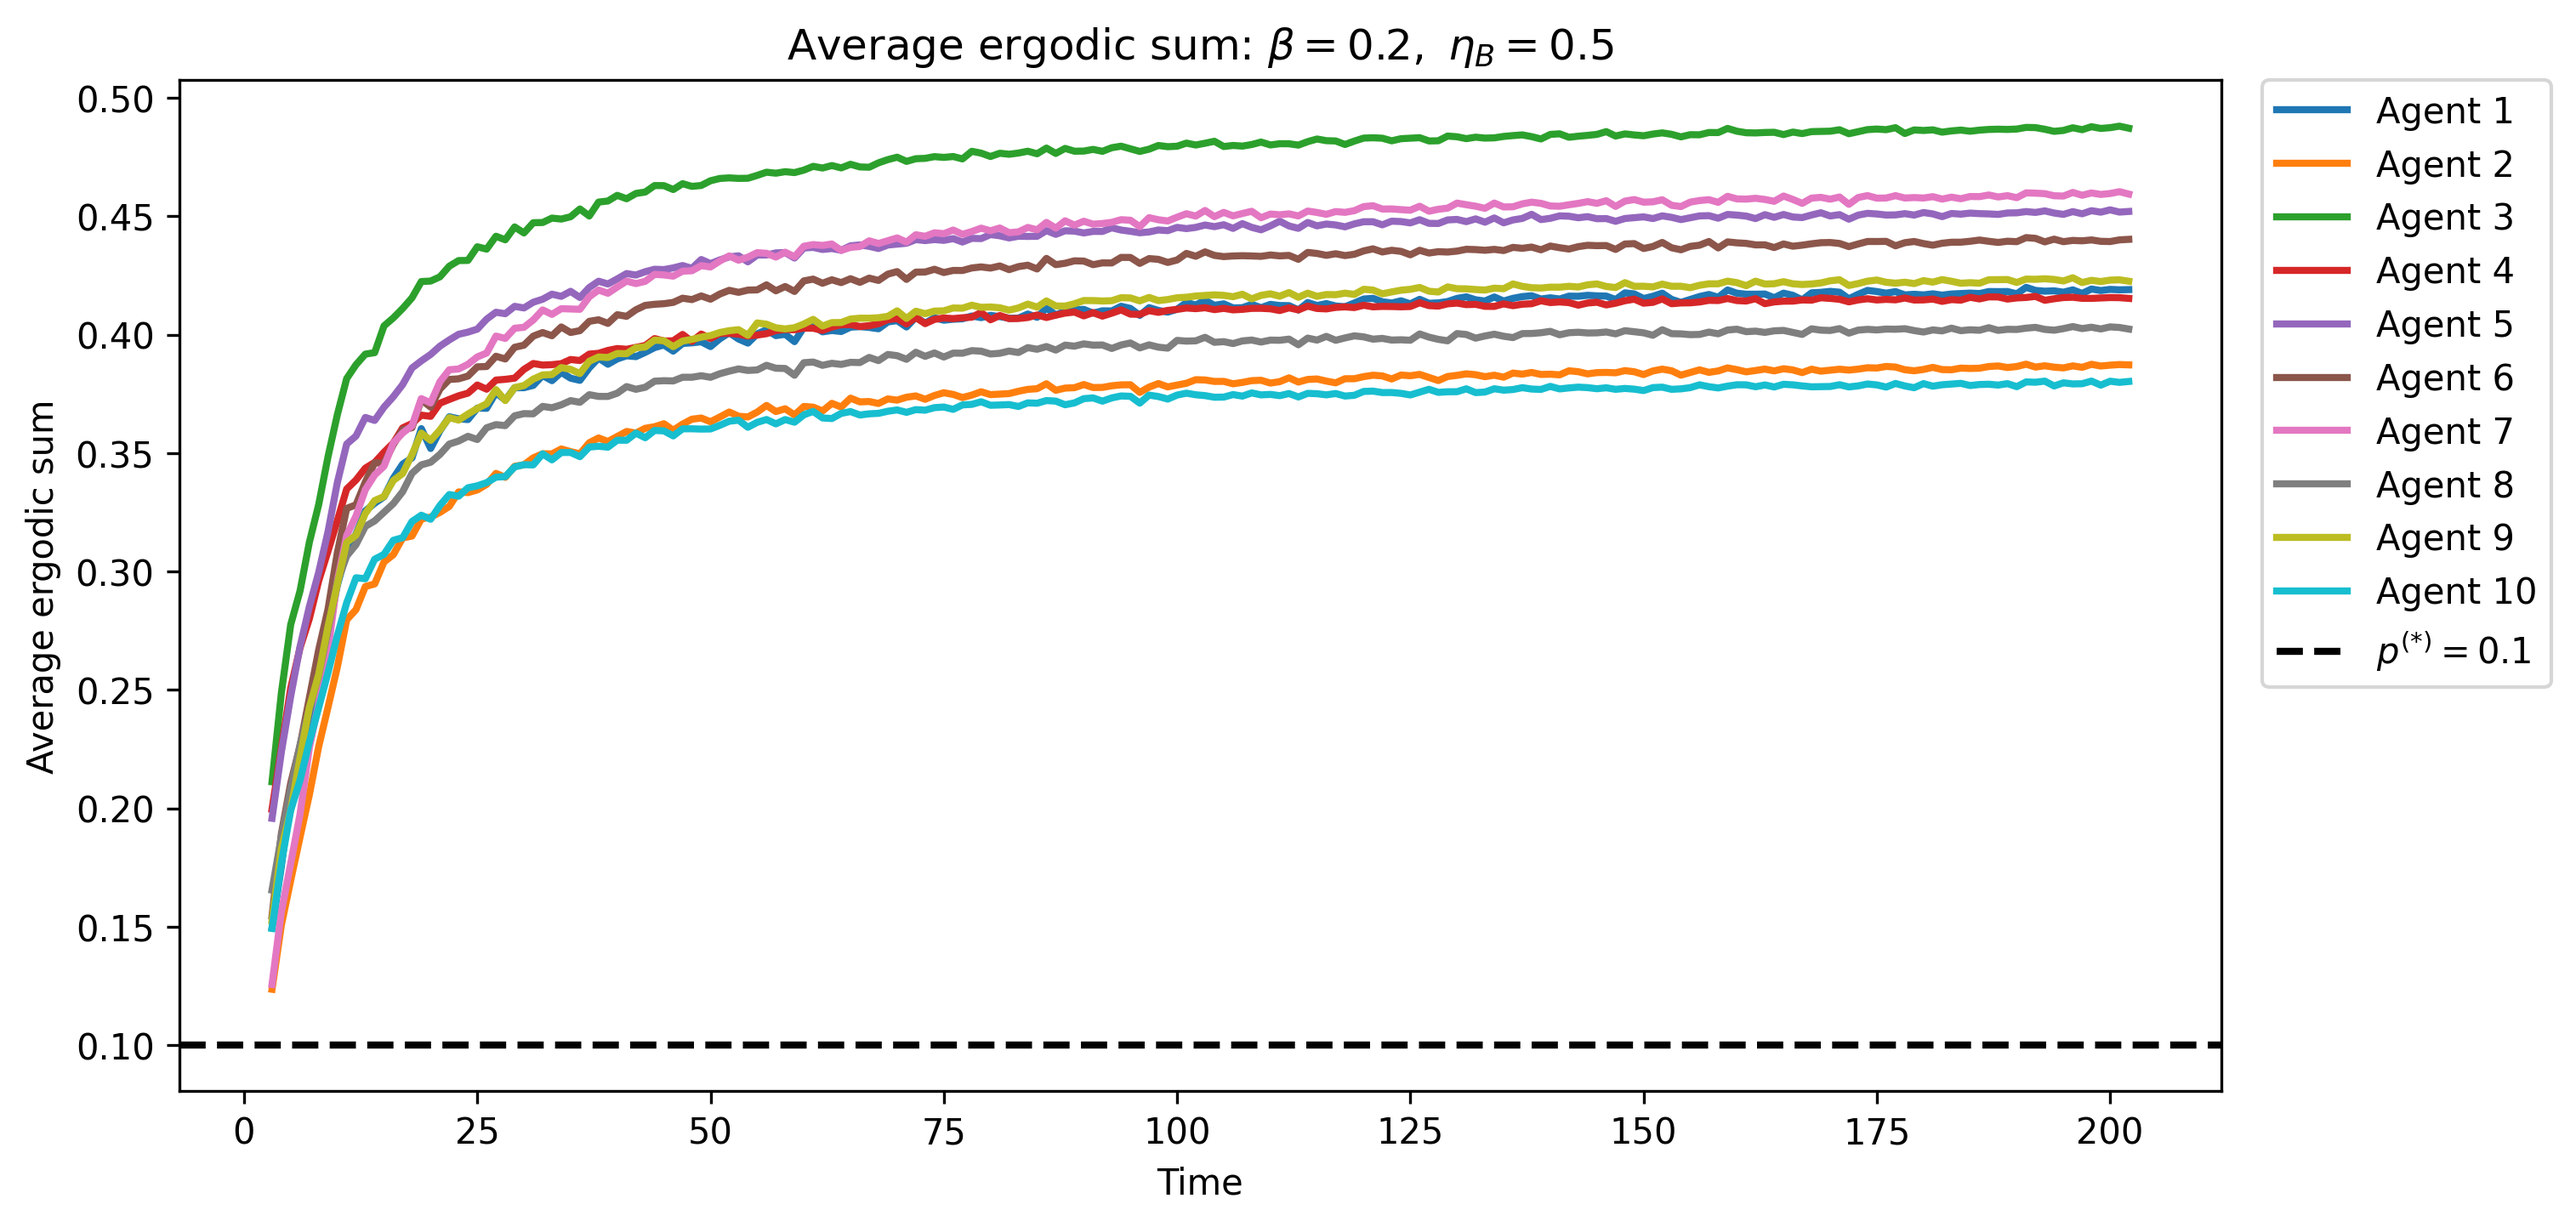
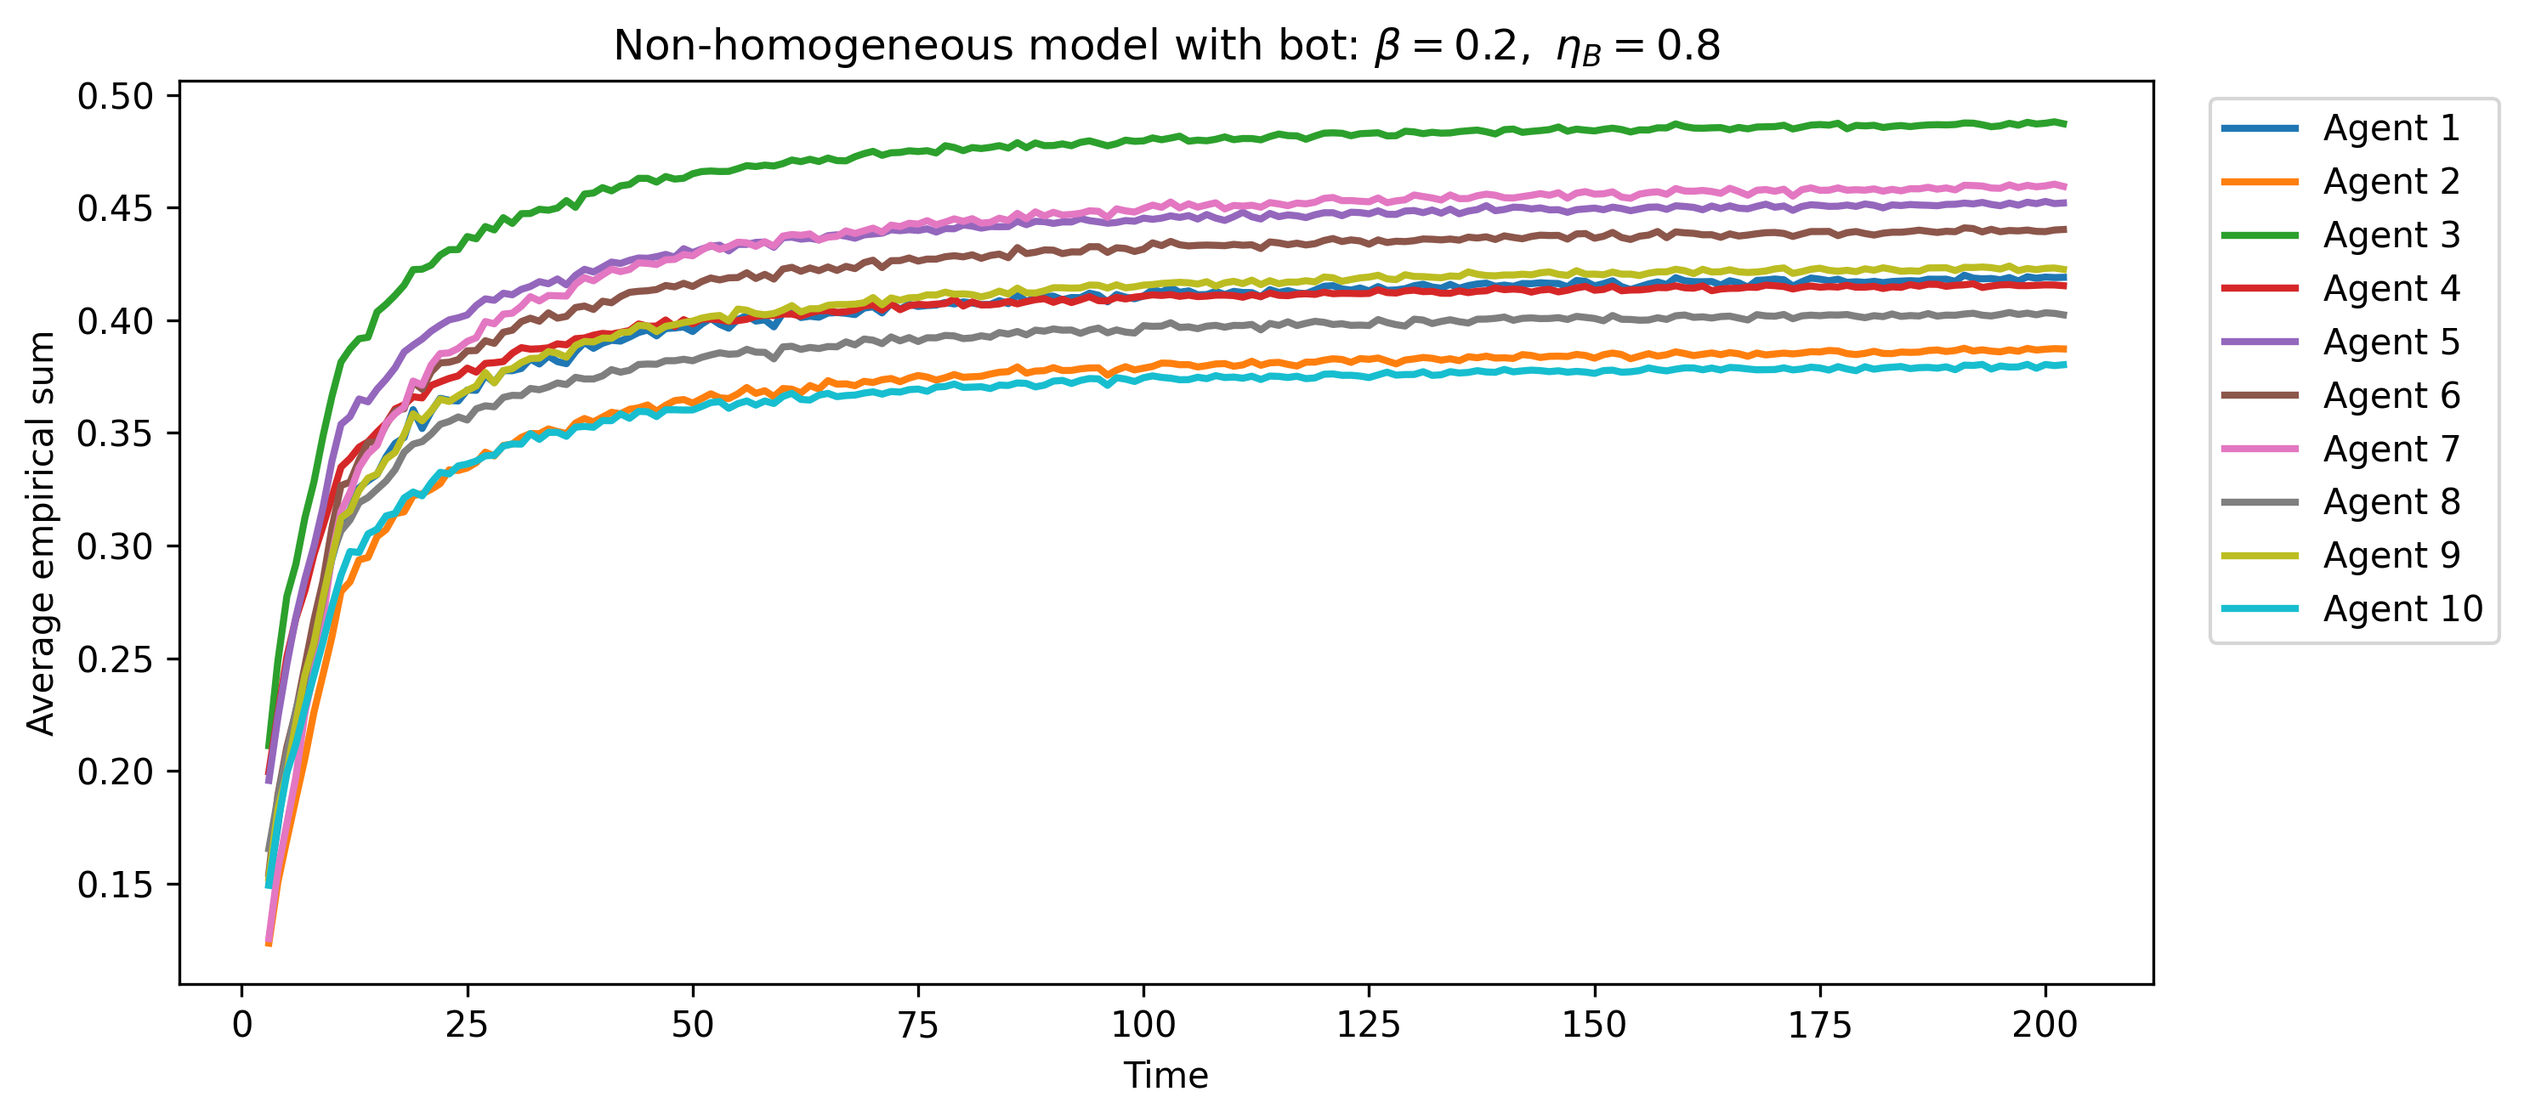
Added non-homogeneous bot figure again

Changed region(s): [[0.0, 0.0311, 0.9916, 0.9643], [0.031, 0.2489, 0.093, 0.3111], [0.031, 0.1555, 0.093, 0.2178]]

diff --git a/src/simulations/run_simulation.py b/src/simulations/run_simulation.py
@@ -1,82 +1,18 @@
-from src.models.od_model import *
-from src.plotting.network_plot import *
+import numpy as np
+import matplotlib.pyplot as plt
 
-# ==================================================
-# Parameters
-# ==================================================
-
-N = 10
-L = 10
-M = 3
-T = 10
-Time = 200
-
-# ==================================================
-# Generate model ingredients
-# ==================================================
-
-c1 = np.load("data/c1_N10_M5.npy")
-c2 = np.load("data/c2_N10_M5.npy")
-memory_sets = generate_memory_sets(
-    N=N,
-    L=L,
-    M=M
+# load data
+all_means = np.load(
+    "data/all_means_N10_M5_nonhomo_bot.npy"
 )
 
-# ==================================================
-# Draw network
-# ==================================================
-A = np.load("data/A_N10_M5.npy")
-# ==================================================
-# Simulate empirical sums for all agents
-# ==================================================
+# time axis
+time = np.arange(3, all_means.shape[0] + 3)
 
-all_means = np.zeros((Time,N))
-
-rng = np.random.default_rng(42)
-
-for horizon in range(3, Time + 3):
-
-    monte_carlo_vals = []
-
-    for sim in range(5000):
-
-        X_history, Z_history = simulate_trajectory(
-            N=N,
-            horizon=horizon,
-            T=T,
-            L=L,
-            A=A,
-            c1=c1,
-            c2=c2,
-            memory_sets=memory_sets,
-            rng=rng,
-        )
-
-        ergodic_vals = np.mean(Z_history, axis=0)
-
-        monte_carlo_vals.append(
-            ergodic_vals
-        )
-
-    all_means[horizon - 3] = np.mean(
-    monte_carlo_vals,
-    axis=0
-)
-#save the empirical sum data
-np.save(
-    "data/all_means_N10_M3.npy",all_means
-)
-
-# ==================================================
-# Plotting
-# ==================================================
-
-time = np.arange(3, Time + 3)
-
+# plot
 plt.figure(figsize=(10, 4.5))
 
-for node in range(N):
+for node in range(all_means.shape[1]):
 
     plt.plot(
         time,
@@ -85,20 +21,22 @@ for node in range(N):
         label=f"Agent {node+1}"
     )
 
-plt.legend(
-    bbox_to_anchor=(1.02, 1),
-    loc="upper left",
-    borderaxespad=0.
-)
-plt.tight_layout()
-
 plt.xlabel("Time")
 plt.ylabel("Average empirical sum")
 
+plt.title(
+    r"Non-homogeneous model with bot: $\beta=0.2,\ \eta_B=0.8$"
+)
+
+plt.legend(
+    bbox_to_anchor=(1.02, 1),
+    loc="upper left"
+)
+
+plt.tight_layout()
 plt.savefig(
-    "figures/all_means_N10_M3.png",
+    "figures/all_means_N10_M5_nonhomo_bot.png",
     dpi=300,
     bbox_inches="tight"
 )
-
 plt.show()
